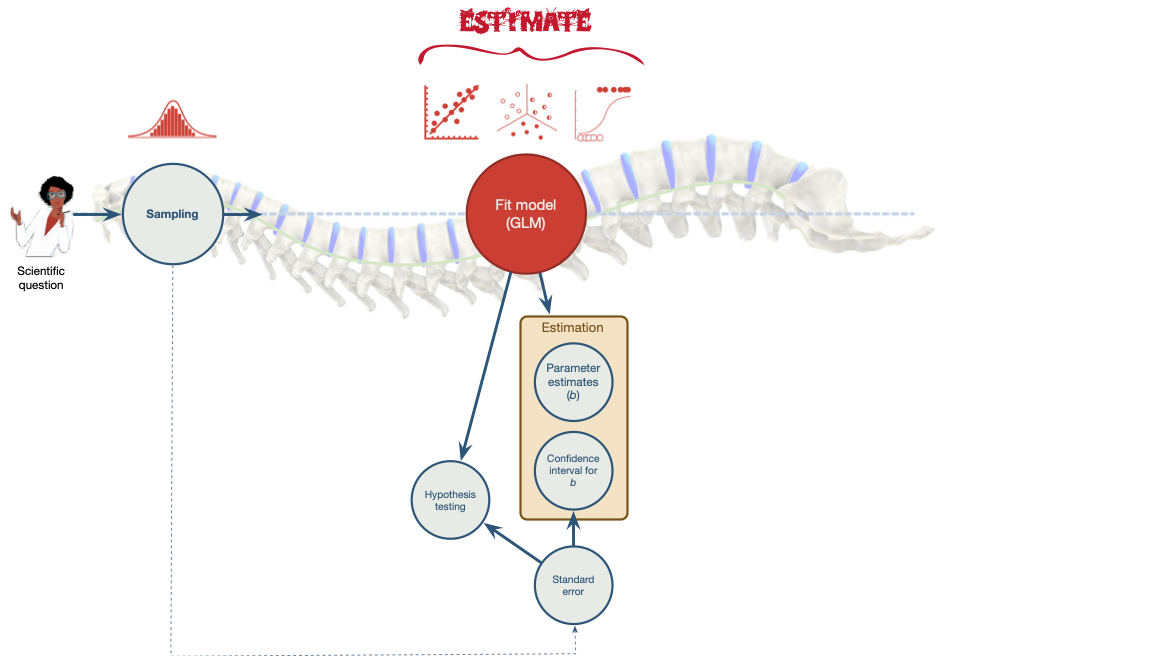
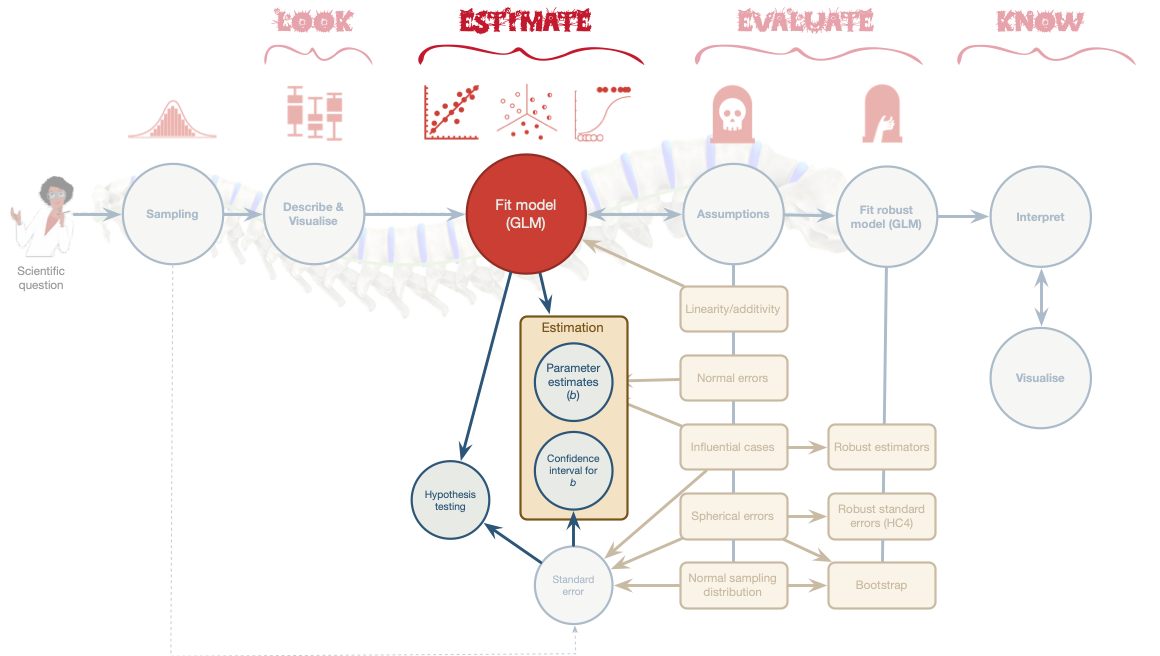
rerendered to apply code styles

diff --git a/ds_01_statistical_models/ds_models.html b/ds_01_statistical_models/ds_models.html
@@ -97,7 +97,7 @@
     code span.vs { color: #20794d; } /* VerbatimString */
     code span.wa { color: #5e5e5e; font-style: italic; } /* Warning */
   </style>
-  <link rel="stylesheet" href="ds_models_files/libs/revealjs/dist/theme/quarto-80bc6ef0b694586696dd19ce982ab47e.css">
+  <link rel="stylesheet" href="ds_models_files/libs/revealjs/dist/theme/quarto-52bec7c8fdb744b1f75a516080575022.css">
   <link href="ds_models_files/libs/revealjs/plugin/quarto-line-highlight/line-highlight.css" rel="stylesheet">
   <link href="ds_models_files/libs/revealjs/plugin/reveal-menu/menu.css" rel="stylesheet">
   <link href="ds_models_files/libs/revealjs/plugin/reveal-menu/quarto-menu.css" rel="stylesheet">

diff --git a/ds_02_interpretation/ds_interpretation.html b/ds_02_interpretation/ds_interpretation.html
@@ -31,7 +31,7 @@
       vertical-align: middle;
     }
   </style>
-  <link rel="stylesheet" href="ds_interpretation_files/libs/revealjs/dist/theme/quarto-80bc6ef0b694586696dd19ce982ab47e.css">
+  <link rel="stylesheet" href="ds_interpretation_files/libs/revealjs/dist/theme/quarto-52bec7c8fdb744b1f75a516080575022.css">
   <link href="ds_interpretation_files/libs/revealjs/plugin/quarto-line-highlight/line-highlight.css" rel="stylesheet">
   <link href="ds_interpretation_files/libs/revealjs/plugin/reveal-menu/menu.css" rel="stylesheet">
   <link href="ds_interpretation_files/libs/revealjs/plugin/reveal-menu/quarto-menu.css" rel="stylesheet">

diff --git a/ds_03_fit/ds_fit.html b/ds_03_fit/ds_fit.html
@@ -97,7 +97,7 @@
     code span.vs { color: #20794d; } /* VerbatimString */
     code span.wa { color: #5e5e5e; font-style: italic; } /* Warning */
   </style>
-  <link rel="stylesheet" href="ds_fit_files/libs/revealjs/dist/theme/quarto-80bc6ef0b694586696dd19ce982ab47e.css">
+  <link rel="stylesheet" href="ds_fit_files/libs/revealjs/dist/theme/quarto-52bec7c8fdb744b1f75a516080575022.css">
   <link href="ds_fit_files/libs/revealjs/plugin/quarto-line-highlight/line-highlight.css" rel="stylesheet">
   <link href="ds_fit_files/libs/revealjs/plugin/reveal-menu/menu.css" rel="stylesheet">
   <link href="ds_fit_files/libs/revealjs/plugin/reveal-menu/quarto-menu.css" rel="stylesheet">